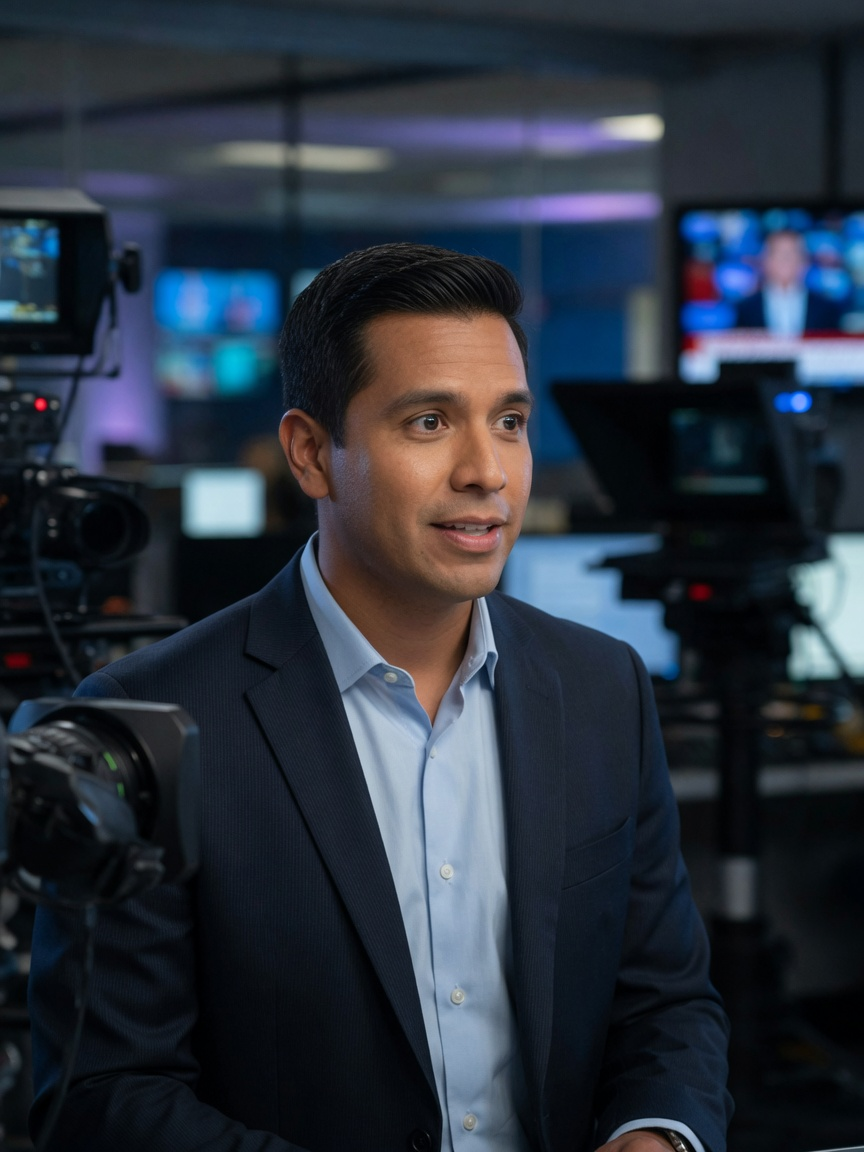
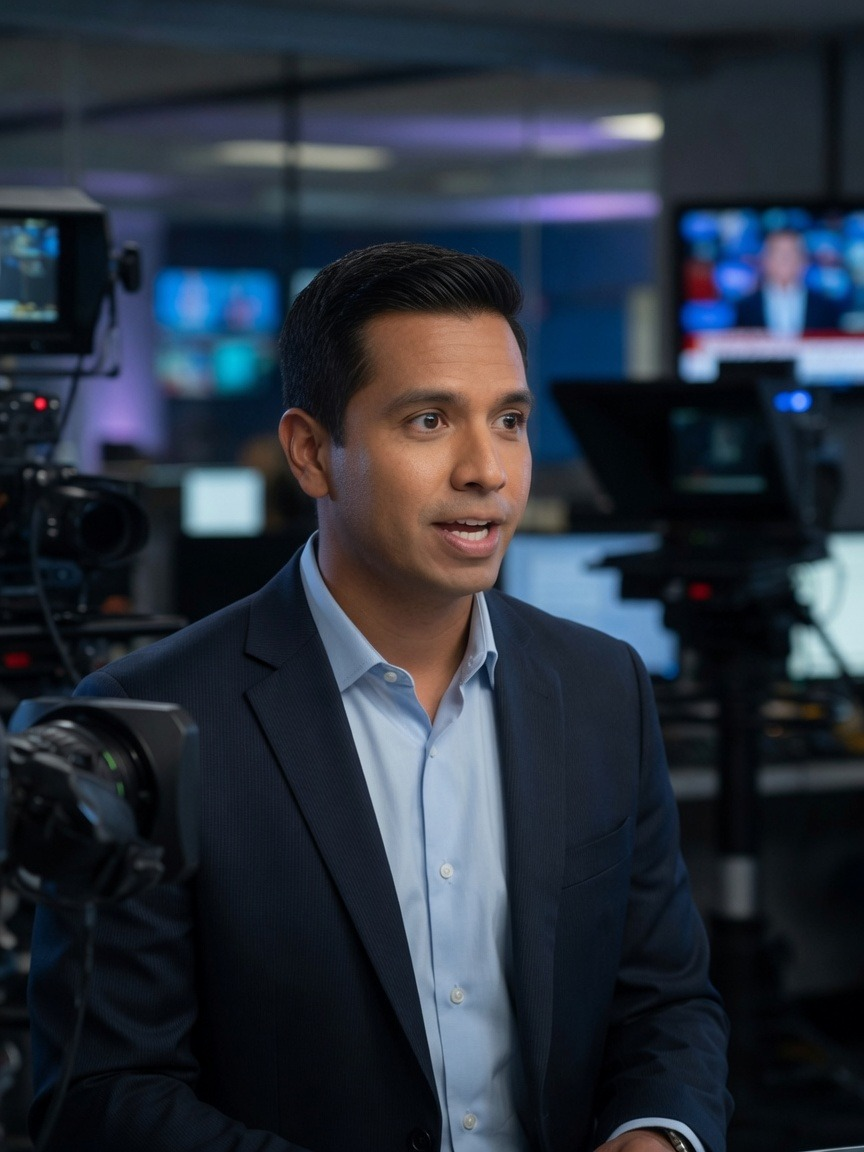
Move the hosts' mouths, eyes, and expressions on the desk.
The speaking frame now opens the lips in two steps. Glances, blinks, and a few moods sit on the same face, and the chin no longer bobs.

diff --git a/src/components/NewsDesk.tsx b/src/components/NewsDesk.tsx
@@ -1,26 +1,49 @@
 /**
  * Live news desk for the hour already on the player.
- * Portraits are stills; the open-mouth frame only shows through a small mask while that host has the mic.
- * The spoken line, clock, and lower third are HTML so they follow the script.
+ * Mouth, blink, and glance frames are pasted onto the closed still, then masked
+ * so only the lips or the eyes change.
  *
  * @license
  * SPDX-License-Identifier: Apache-2.0
  */
-import React from 'react';
+import React, { useEffect, useState } from 'react';
 import { RadioShow, RadioStation } from '../types';
 import studio from '../assets/tv/studio.jpg';
 import devon from '../assets/tv/devon.jpg';
 import devonTalk from '../assets/tv/devon-talk.jpg';
+import devonMid from '../assets/tv/devon-mid.jpg';
+import devonGlance from '../assets/tv/devon-glance.jpg';
+import devonBlink from '../assets/tv/devon-blink.jpg';
+import devonExpress from '../assets/tv/devon-express.jpg';
 import maya from '../assets/tv/maya.jpg';
 import mayaTalk from '../assets/tv/maya-talk.jpg';
+import mayaMid from '../assets/tv/maya-mid.jpg';
+import mayaGlance from '../assets/tv/maya-glance.jpg';
+import mayaBlink from '../assets/tv/maya-blink.jpg';
+import mayaExpress from '../assets/tv/maya-express.jpg';
 import zack from '../assets/tv/zack.jpg';
 import zackTalk from '../assets/tv/zack-talk.jpg';
+import zackMid from '../assets/tv/zack-mid.jpg';
+import zackGlance from '../assets/tv/zack-glance.jpg';
+import zackBlink from '../assets/tv/zack-blink.jpg';
+import zackExpress from '../assets/tv/zack-express.jpg';
 import aris from '../assets/tv/aris.jpg';
 import arisTalk from '../assets/tv/aris-talk.jpg';
+import arisMid from '../assets/tv/aris-mid.jpg';
+import arisGlance from '../assets/tv/aris-glance.jpg';
+import arisBlink from '../assets/tv/aris-blink.jpg';
+import arisExpress from '../assets/tv/aris-express.jpg';
 import casey from '../assets/tv/casey.jpg';
 import caseyTalk from '../assets/tv/casey-talk.jpg';
+import caseyMid from '../assets/tv/casey-mid.jpg';
+import caseyGlance from '../assets/tv/casey-glance.jpg';
+import caseyBlink from '../assets/tv/casey-blink.jpg';
 import victoria from '../assets/tv/victoria.jpg';
 import victoriaTalk from '../assets/tv/victoria-talk.jpg';
+import victoriaMid from '../assets/tv/victoria-mid.jpg';
+import victoriaGlance from '../assets/tv/victoria-glance.jpg';
+import victoriaBlink from '../assets/tv/victoria-blink.jpg';
+import victoriaExpress from '../assets/tv/victoria-express.jpg';
 
 interface NewsDeskProps {
   show: RadioShow;
@@ -31,14 +54,28 @@ interface NewsDeskProps {
   onSeekSegment: (index: number) => void;
 }
 
-/** Mouth center on the source still, as a percentage of the frame. */
-const HOSTS: Record<string, { still: string; talk: string; mx: string; my: string }> = {
-  devon: { still: devon, talk: devonTalk, mx: '48%', my: '57%' },
-  maya: { still: maya, talk: mayaTalk, mx: '54%', my: '44%' },
-  zack: { still: zack, talk: zackTalk, mx: '52%', my: '45%' },
-  aris: { still: aris, talk: arisTalk, mx: '52%', my: '51%' },
-  casey: { still: casey, talk: caseyTalk, mx: '56%', my: '41%' },
-  victoria: { still: victoria, talk: victoriaTalk, mx: '60%', my: '39%' }
+interface HostArt {
+  still: string;
+  mid: string;
+  talk: string;
+  glance: string;
+  blink: string;
+  express?: string;
+  /** Lip center and eye center, as percentages of the frame. */
+  mx: string;
+  my: string;
+  ex: string;
+  ey: string;
+  moods: string[];
+}
+
+const HOSTS: Record<string, HostArt> = {
+  devon: { still: devon, mid: devonMid, talk: devonTalk, glance: devonGlance, blink: devonBlink, express: devonExpress, mx: '55%', my: '48%', ex: '58%', ey: '37%', moods: ['skeptical', 'heated'] },
+  maya: { still: maya, mid: mayaMid, talk: mayaTalk, glance: mayaGlance, blink: mayaBlink, express: mayaExpress, mx: '62%', my: '44%', ex: '60%', ey: '33%', moods: ['laughing', 'excited', 'intrigued'] },
+  zack: { still: zack, mid: zackMid, talk: zackTalk, glance: zackGlance, blink: zackBlink, express: zackExpress, mx: '56%', my: '44%', ex: '53%', ey: '39%', moods: ['laughing', 'excited'] },
+  aris: { still: aris, mid: arisMid, talk: arisTalk, glance: arisGlance, blink: arisBlink, express: arisExpress, mx: '52%', my: '50%', ex: '50%', ey: '37%', moods: ['skeptical', 'heated'] },
+  casey: { still: casey, mid: caseyMid, talk: caseyTalk, glance: caseyGlance, blink: caseyBlink, mx: '56%', my: '48%', ex: '49%', ey: '38%', moods: [] },
+  victoria: { still: victoria, mid: victoriaMid, talk: victoriaTalk, glance: victoriaGlance, blink: victoriaBlink, express: victoriaExpress, mx: '63%', my: '42%', ex: '58%', ey: '33%', moods: ['skeptical', 'heated'] }
 };
 
 function clock(ms: number): string {
@@ -62,6 +99,16 @@ export const NewsDesk: React.FC<NewsDeskProps> = ({
   elapsedMs,
   onSeekSegment
 }) => {
+  const [beat, setBeat] = useState(0);
+  useEffect(() => {
+    if (!isPlaying) {
+      setBeat(0);
+      return;
+    }
+    const id = window.setInterval(() => setBeat((n) => (n + 1) % 16), 130);
+    return () => window.clearInterval(id);
+  }, [isPlaying]);
+
   const segment = show.segments[activeSegmentIndex] || show.segments[0];
   const speakerId = segment?.speakerId || '';
   const hosts = station.hosts.filter((host) => HOSTS[host.id]);
@@ -69,6 +116,7 @@ export const NewsDesk: React.FC<NewsDeskProps> = ({
   const line = isPlaying && segment?.text
     ? segment.text
     : 'The desk is standing by. Press play and this hour reads on the set.';
+  const emotion = segment?.emotion || '';
 
   return (
     <section
@@ -109,6 +157,18 @@ export const NewsDesk: React.FC<NewsDeskProps> = ({
         {hosts.map((host) => {
           const art = HOSTS[host.id];
           const talking = isPlaying && speakerId === host.id;
+          const phase = beat % 4;
+          const mouthSrc = talking ? (phase === 2 ? art.talk : phase === 0 ? null : art.mid) : null;
+          const blinkNow = isPlaying && beat % 16 === 3;
+          const glanceNow = isPlaying && (talking ? beat % 16 === 8 : beat % 16 === 12);
+          const eyeSrc = blinkNow ? art.blink : glanceNow || (talking && emotion === 'intrigued') ? art.glance : null;
+          const showMood = talking && art.express && art.moods.includes(emotion);
+          const mask = {
+            ['--mx' as string]: art.mx,
+            ['--my' as string]: art.my,
+            ['--ex' as string]: art.ex,
+            ['--ey' as string]: art.ey
+          };
           return (
             <div key={host.id} className="flex w-[44%] max-w-[11.5rem] flex-col items-stretch md:max-w-[12.5rem] xl:max-w-[16rem]">
               {talking && (
@@ -131,30 +191,22 @@ export const NewsDesk: React.FC<NewsDeskProps> = ({
                 className="group cursor-pointer text-left"
                 aria-label={`Jump to the next line from ${host.name}`}
               >
-                <div className={talking ? 'tv-talk' : undefined}>
-                  <div
-                    className="relative overflow-hidden rounded-lg bg-slate-900 ring-2 ring-white/15"
-                    style={talking ? { boxShadow: `0 0 0 2px ${station.accentColor}, 0 12px 40px ${station.accentColor}55` } : undefined}
-                  >
-                    <img src={art.still} alt="" className="block w-full" />
-                    {talking && (
-                      <img
-                        src={art.talk}
-                        alt=""
-                        className="tv-mouth"
-                        style={{ ['--mx' as string]: art.mx, ['--my' as string]: art.my }}
-                      />
-                    )}
-                    {talking && (
-                      <span className="absolute right-2 top-2 rounded bg-red-600 px-1.5 py-0.5 text-[9px] font-bold uppercase tracking-wider text-white">
-                        Mic
-                      </span>
-                    )}
-                  </div>
-                  <div className="mt-1.5 rounded bg-slate-950/80 px-2 py-1">
-                    <div className="truncate text-xs font-semibold text-white">{host.name}</div>
-                    <div className="truncate text-[10px] uppercase tracking-wide text-slate-400">{host.title}</div>
-                  </div>
+                <div
+                  className="relative overflow-hidden rounded-lg bg-slate-900 ring-2 ring-white/15"
+                  style={talking ? { boxShadow: `0 0 0 2px ${station.accentColor}, 0 12px 40px ${station.accentColor}55` } : undefined}
+                >
+                  <img src={showMood ? art.express : art.still} alt="" className="block w-full" />
+                  {mouthSrc && <img src={mouthSrc} alt="" className="tv-part tv-mouth" style={mask} />}
+                  {eyeSrc && <img src={eyeSrc} alt="" className="tv-part tv-eyes" style={mask} />}
+                  {talking && (
+                    <span className="absolute right-2 top-2 rounded bg-red-600 px-1.5 py-0.5 text-[9px] font-bold uppercase tracking-wider text-white">
+                      Mic
+                    </span>
+                  )}
+                </div>
+                <div className="mt-1.5 rounded bg-slate-950/80 px-2 py-1">
+                  <div className="truncate text-xs font-semibold text-white">{host.name}</div>
+                  <div className="truncate text-[10px] uppercase tracking-wide text-slate-400">{host.title}</div>
                 </div>
               </button>
             </div>

diff --git a/src/index.css b/src/index.css
@@ -47,25 +47,21 @@
 }
 .tv-bubble { animation: bubbleIn 0.28s ease-out both; }
 
-@keyframes tvBob {
-  0%, 100% { transform: translateY(0); }
-  50% { transform: translateY(-3px); }
-}
-.tv-talk { animation: tvBob 0.42s ease-in-out infinite; }
-
-@keyframes mouth {
-  0%, 46% { opacity: 1; }
-  54%, 100% { opacity: 0; }
-}
-.tv-mouth {
+.tv-part {
   position: absolute;
   inset: 0;
   width: 100%;
   height: 100%;
   object-fit: cover;
-  animation: mouth 0.2s steps(1) infinite;
-  -webkit-mask-image: radial-gradient(ellipse 22% 9% at var(--mx, 50%) var(--my, 50%), #000 42%, transparent 72%);
-  mask-image: radial-gradient(ellipse 22% 9% at var(--mx, 50%) var(--my, 50%), #000 42%, transparent 72%);
+  pointer-events: none;
+}
+.tv-mouth {
+  -webkit-mask-image: radial-gradient(ellipse 14% 6.5% at var(--mx, 50%) var(--my, 50%), #000 58%, transparent 80%);
+  mask-image: radial-gradient(ellipse 14% 6.5% at var(--mx, 50%) var(--my, 50%), #000 58%, transparent 80%);
+}
+.tv-eyes {
+  -webkit-mask-image: radial-gradient(ellipse 30% 8% at var(--ex, 50%) var(--ey, 36%), #000 52%, transparent 78%);
+  mask-image: radial-gradient(ellipse 30% 8% at var(--ex, 50%) var(--ey, 36%), #000 52%, transparent 78%);
 }
 
 .tv-scan {
